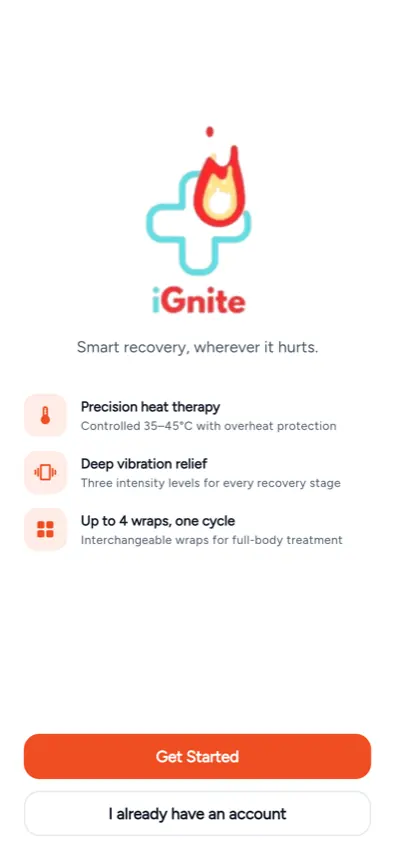
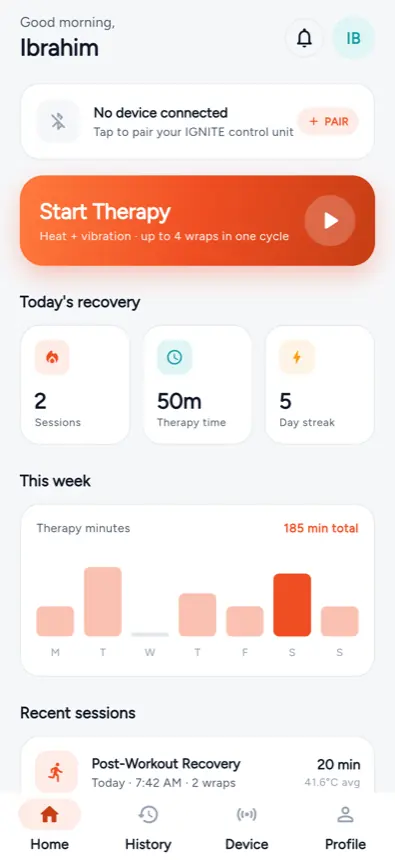
Capture all eight iGnite screens via named routes
Replaces the two welcome/sign-in shots with the full journey: dashboard,
connected device, treatment selection, session setup, live session,
session complete, history and profile.

Synthetic clicks and typing do not reach Flutter CanvasKit in headless
Chrome, so the earlier attempts stalled on the sign-in form. The app
declares every screen as a named route in lib/demo_routes.dart, and
Flutter web serves those as hash URLs — deep-linking to each one gets a
real screenshot without needing to drive the UI.

diff --git a/index.html b/index.html
@@ -652,7 +652,7 @@ const PROJECTS = [
     'Mereka sistem "Ember": ember oren-merah #F04E23 untuk haba, teal perubatan #0E9DA4, neutral klinikal, jejari 20px dan skala warna haba terikat pada nilai suhu.'
   ]},
   stats:[{k:'10',v:{en:'Screens',ms:'Skrin'}},{k:'4',v:{en:'Wrap ports',ms:'Port balutan'}},{k:'35-45°',v:{en:'Heat range',ms:'Julat haba'}}],
-  shots:['shots/ignite-1.webp','shots/ignite-2.webp'],
+  shots:['shots/ignite-1.webp','shots/ignite-2.webp','shots/ignite-3.webp','shots/ignite-4.webp','shots/ignite-5.webp','shots/ignite-6.webp','shots/ignite-7.webp','shots/ignite-8.webp'],
   links:[]
 },
 {

diff --git a/README.md b/README.md
@@ -118,9 +118,15 @@ boleh ditambah semula — salin semula objeknya ke dalam `PROJECTS`.
 |---|---|---|
 | Slimora | Simulator iPhone 17 Pro | 6 |
 | EduBuddy | Simulator iPhone 17 Pro | 6 |
-| iGnite | Binaan Flutter web | 2 |
+| iGnite | zaitulakmal.github.io/Ignite via laluan bernama | 8 |
 
 **Landskap (bingkai browser)** — medan `wides:[...]`
+
+iGnite ditangkap dengan deep-link ke laluan dalam `lib/demo_routes.dart`
+(`#/home`, `#/device-connected`, `#/treatment`, `#/setup`, `#/session`,
+`#/complete`, `#/history`, `#/profile`). Klik dan taip tidak berfungsi pada
+Flutter CanvasKit dalam browser tanpa kepala, tetapi hash route berfungsi —
+itu cara paling boleh dipercayai untuk menangkap setiap skrin.
 
 Projek boleh set `frame:'photo'` untuk guna rangka foto penuh (tanpa chrome
 browser) dan `media:{en,ms}` untuk menamakan jenis media pada lencana — EchoLens
